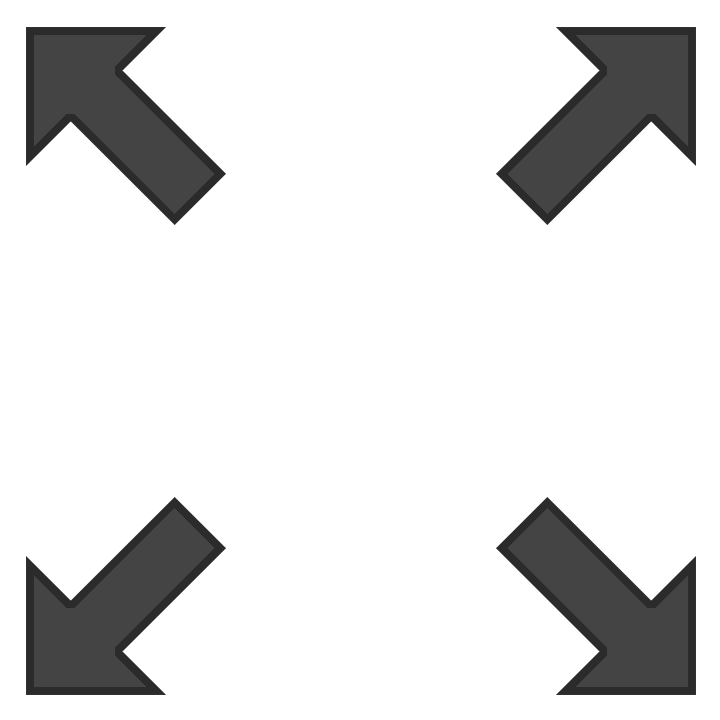
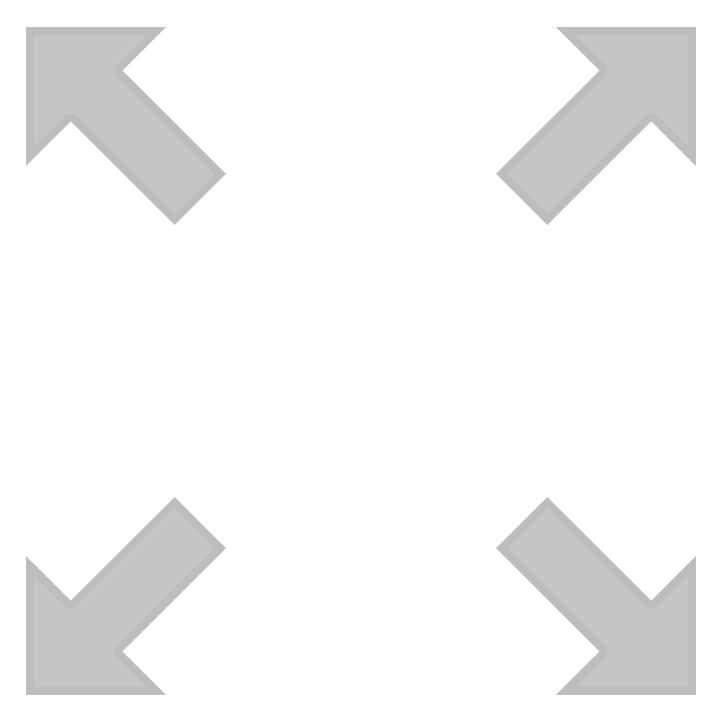
v0.1.9 - updating with several fixes and improvements, removing eye tracking for now

diff --git a/src/code.js b/src/code.js
@@ -29,8 +29,10 @@ const app = () => {
     //Call resize functions on setup so canvas is happy from the start
     resizeToDiv();
     //Setup doco character example
-    resizeDoco();
-    repositionDoco();
+    if(doco) {
+        resizeDoco();
+        repositionDoco();
+    }
 
     //Preload custom font and kick off main processes
     var f = new FontFace('retroPixel', 'url(./src/EarlyGameBoy.ttf)');
@@ -49,6 +51,7 @@ var width = 0;
 var height = 0;
 var aspectRatio = 0;
 var renderInterval;
+var eyeInterval;
 
 //Min and Max values, set by looking at the CSS values for 'nftBOX' div
 var minCanvas;
@@ -64,6 +67,15 @@ imgFullScreenOpen.src = 'src/fullscreenOpen.png';
 imgFullScreenClose.src = 'src/fullscreenClose.png';
 var fullScreenToggle = false;
 var fullScreenOver = false;
+
+//eye tracking example 
+let imgEyeL = new Image();
+let imgEyeR = new Image();
+let imgDocoBlank = new Image();
+imgEyeL.src = 'src/eye.png'
+imgEyeR.src = 'src/eye.png'
+imgDocoBlank.src = 'src/doco_blank.png'
+
 var pad, xLoc, yLoc, xScale;
 
 //Make a memory only canvas for redraw 
@@ -82,8 +94,10 @@ window.onresize = function()
         resizeToDiv();
     }
     //Doco resize
-    resizeDoco();
-    repositionDoco();
+    if(doco) {
+        resizeDoco();
+        repositionDoco();
+    }
 }
 
 //Todo? - handle pointer leaving canvas
@@ -114,9 +128,21 @@ function drawFullScreenButton() {
 
     //draw fullscreen button in various states
     if(fullScreenToggle) {
-        ctx.drawImage(imgFullScreenClose, xLoc, yLoc, xScale, xScale);
+        if(fullScreenOver) {
+            ctx.drawImage(imgFullScreenClose, xLoc, yLoc, xScale, xScale);
+        } else {
+            ctx.globalAlpha = 0.15;
+            ctx.drawImage(imgFullScreenClose, xLoc, yLoc, xScale, xScale);
+            ctx.globalAlpha = 1;
+        }
     } else {
-        ctx.drawImage(imgFullScreenOpen, xLoc, yLoc, xScale, xScale);
+        if(fullScreenOver) {
+            ctx.drawImage(imgFullScreenOpen, xLoc, yLoc, xScale, xScale);
+        } else {
+            ctx.globalAlpha = 0.15;
+            ctx.drawImage(imgFullScreenOpen, xLoc, yLoc, xScale, xScale);
+            ctx.globalAlpha = 1;
+        }
     }
 }
 
@@ -136,8 +162,9 @@ function renderLoop() {
     ctx.clearRect(0, 0, canvas.width, canvas.height);
 
     //Draw arrows scale icon (with opacity)
-    ctx.globalAlpha = 0.5;
+    ctx.globalAlpha = 1;
     ctx.drawImage(imgScaleIcon, 0, 0, width, height);
+    // ctx.drawImage(imgDocoBlank, width*0.35, height*0.35, width*0.3, width*0.3);
     ctx.globalAlpha = 1;
     
     //Draw Title text
@@ -145,7 +172,7 @@ function renderLoop() {
     ctx.textAlign = "center";
     ctx.font = height/26 + 'px retroPixel';
     ctx.fillText("*DYNAMIC FRAME*", 0.5*width, 0.12*height);
-    ctx.fillText("TEMPLATE 0.1.8", 0.5*width, 0.16*height);
+    ctx.fillText("TEMPLATE 0.1.9", 0.5*width, 0.16*height);
 
     //Draw custom red text for min/max sizes
     ctx.fillStyle = '#303030';
@@ -167,8 +194,17 @@ function renderLoop() {
         
     }
 
+    //Eye stuff
+    //recalc eye variables
+    // eyeScale = (loopyScale/14) * width;
+    // eyeL_X = (width*0.435);
+    // eyeR_X = (width*0.50);
+    // eye_Y = (height*0.42);
+    // ctx.drawImage(imgEyeL, cXL + eyeL_X, cYL + eye_Y, eyeScale, eyeScale);
+    // ctx.drawImage(imgEyeR, cXR + eyeR_X, cYR + eye_Y, eyeScale, eyeScale);
+
     //Draw select-area for Doco
-    if(!docoDrag) {
+    if(!docoDrag && doco) {
         checkIfOverDoco();
     }
 
@@ -193,6 +229,8 @@ function startPANEL() {
 
     //set off render process
     renderInterval = setInterval(renderLoop, 20);
+
+    eyeInterval = setInterval(calcDrawEyes, 50);
 }
 
 //Kick off app function when initial HTML document loaded

diff --git a/src/eyeFunction.js b/src/eyeFunction.js
@@ -1,0 +1,39 @@
+//Eye Tracking
+let eyeScale;
+let eyeL_X;
+let eyeR_X;
+let eye_Y;
+let cXL;
+let cXR;
+let cYL;
+let cYR;
+var loopyScale = 1.00; //still glitches
+var loopyX = 0.0;
+var loopyY = 0.0;
+
+function calcDrawEyes() {
+    var eyeWidthL = ((imgEyeL.width/2)*loopyScale)/2; //can split into x/y if needed
+    var eyeWidthR = ((imgEyeR.width/2)*loopyScale)/2; //can split into x/y if needed
+    //LEFT EYE
+    //calc angle between mouse and eye center
+    const xDiffL = ((eyeL_X + eyeWidthL) - mouse.x);
+    const yDiffL = ((eye_Y + eyeWidthL) - mouse.y);
+    const angleL = Math.atan2(yDiffL, xDiffL) - Math.PI;
+    if (!isNaN(angleL)) {
+        // calculate the point on the circumference of the eye
+        cXL = ((eyeWidthL/5) * Math.cos(angleL)) * (width/650); 
+        cYL = ((eyeWidthL/5) * Math.sin(angleL)) * (width/650);
+        //ctx.drawImage(imgEyeL, cXL + eyeL_X, cYL + eye_Y, eyeScale, eyeScale);
+    }
+    //RIGHT EYE
+    //calc angle between mouse and eye center
+    const xDiffR = ((eyeR_X + eyeWidthR) - mouse.x);
+    const yDiffR = ((eye_Y + eyeWidthR) - mouse.y);
+    const angleR = Math.atan2(yDiffR, xDiffR) - Math.PI;
+    if (!isNaN(angleR)) {
+        // calculate the point on the circumference of the eye
+        cXR = ((eyeWidthR/5) * Math.cos(angleR)) * (width/650);
+        cYR = ((eyeWidthR/5) * Math.sin(angleR)) * (width/650);
+        //ctx.drawImage(imgEyeR, cXR + eyeR_X, cYR + eye_Y, eyeScale, eyeScale);
+    }
+}

diff --git a/index.html b/index.html
@@ -14,10 +14,11 @@
         <script src="src/screenFunctions.js"></script>
         <script src="src/docoFunctions.js"></script>
         <script src="src/mouseFunctions.js"></script>
-        <title>_template_v0.1.8</title>
+        <script src="src/eyeFunction.js"></script>
+        <title>_template_v0.1.9</title>
     </head>
     <body>
-        <!-- nftBOX is the primary div & the one which scales dynamically -->
+        <!-- nftBOX is the primary div & the one which scales dynamically --> 
         <!-- Set dimension min/max in CSS -->
         <div id="containerCanvas">
             <div id="innerDIV">

diff --git a/src/screenFunctions.js b/src/screenFunctions.js
@@ -3,8 +3,10 @@
 function fullScreenEnable() {
     //resize elements
     resizeToDiv();
-    resizeDoco();
-    repositionDoco();
+    if(doco) {
+        resizeDoco();
+        repositionDoco();
+    }
 }
 function fullScreenDisable() {
     //reset constraints 
@@ -14,8 +16,10 @@ function fullScreenDisable() {
     nftBOX.style.minHeight = minCanvas + 'px';
     //resize elements
     resizeToDiv();
-    resizeDoco();
-    repositionDoco();
+    if(doco) {
+        resizeDoco();
+        repositionDoco();
+    }
 }
 
 //Primary resize function for canvas

diff --git a/src/mouseFunctions.js b/src/mouseFunctions.js
@@ -18,7 +18,7 @@ function dragStart(e) {
     
     //refresh whether we are over clickable objects
     //this wont work if its only checking via the *later* render function highlight
-    checkIfOverDoco();
+    if(doco) { checkIfOverDoco(); }
     checkIfOverFullScreen();
     
     //Mouse click if hovering over Doco element
